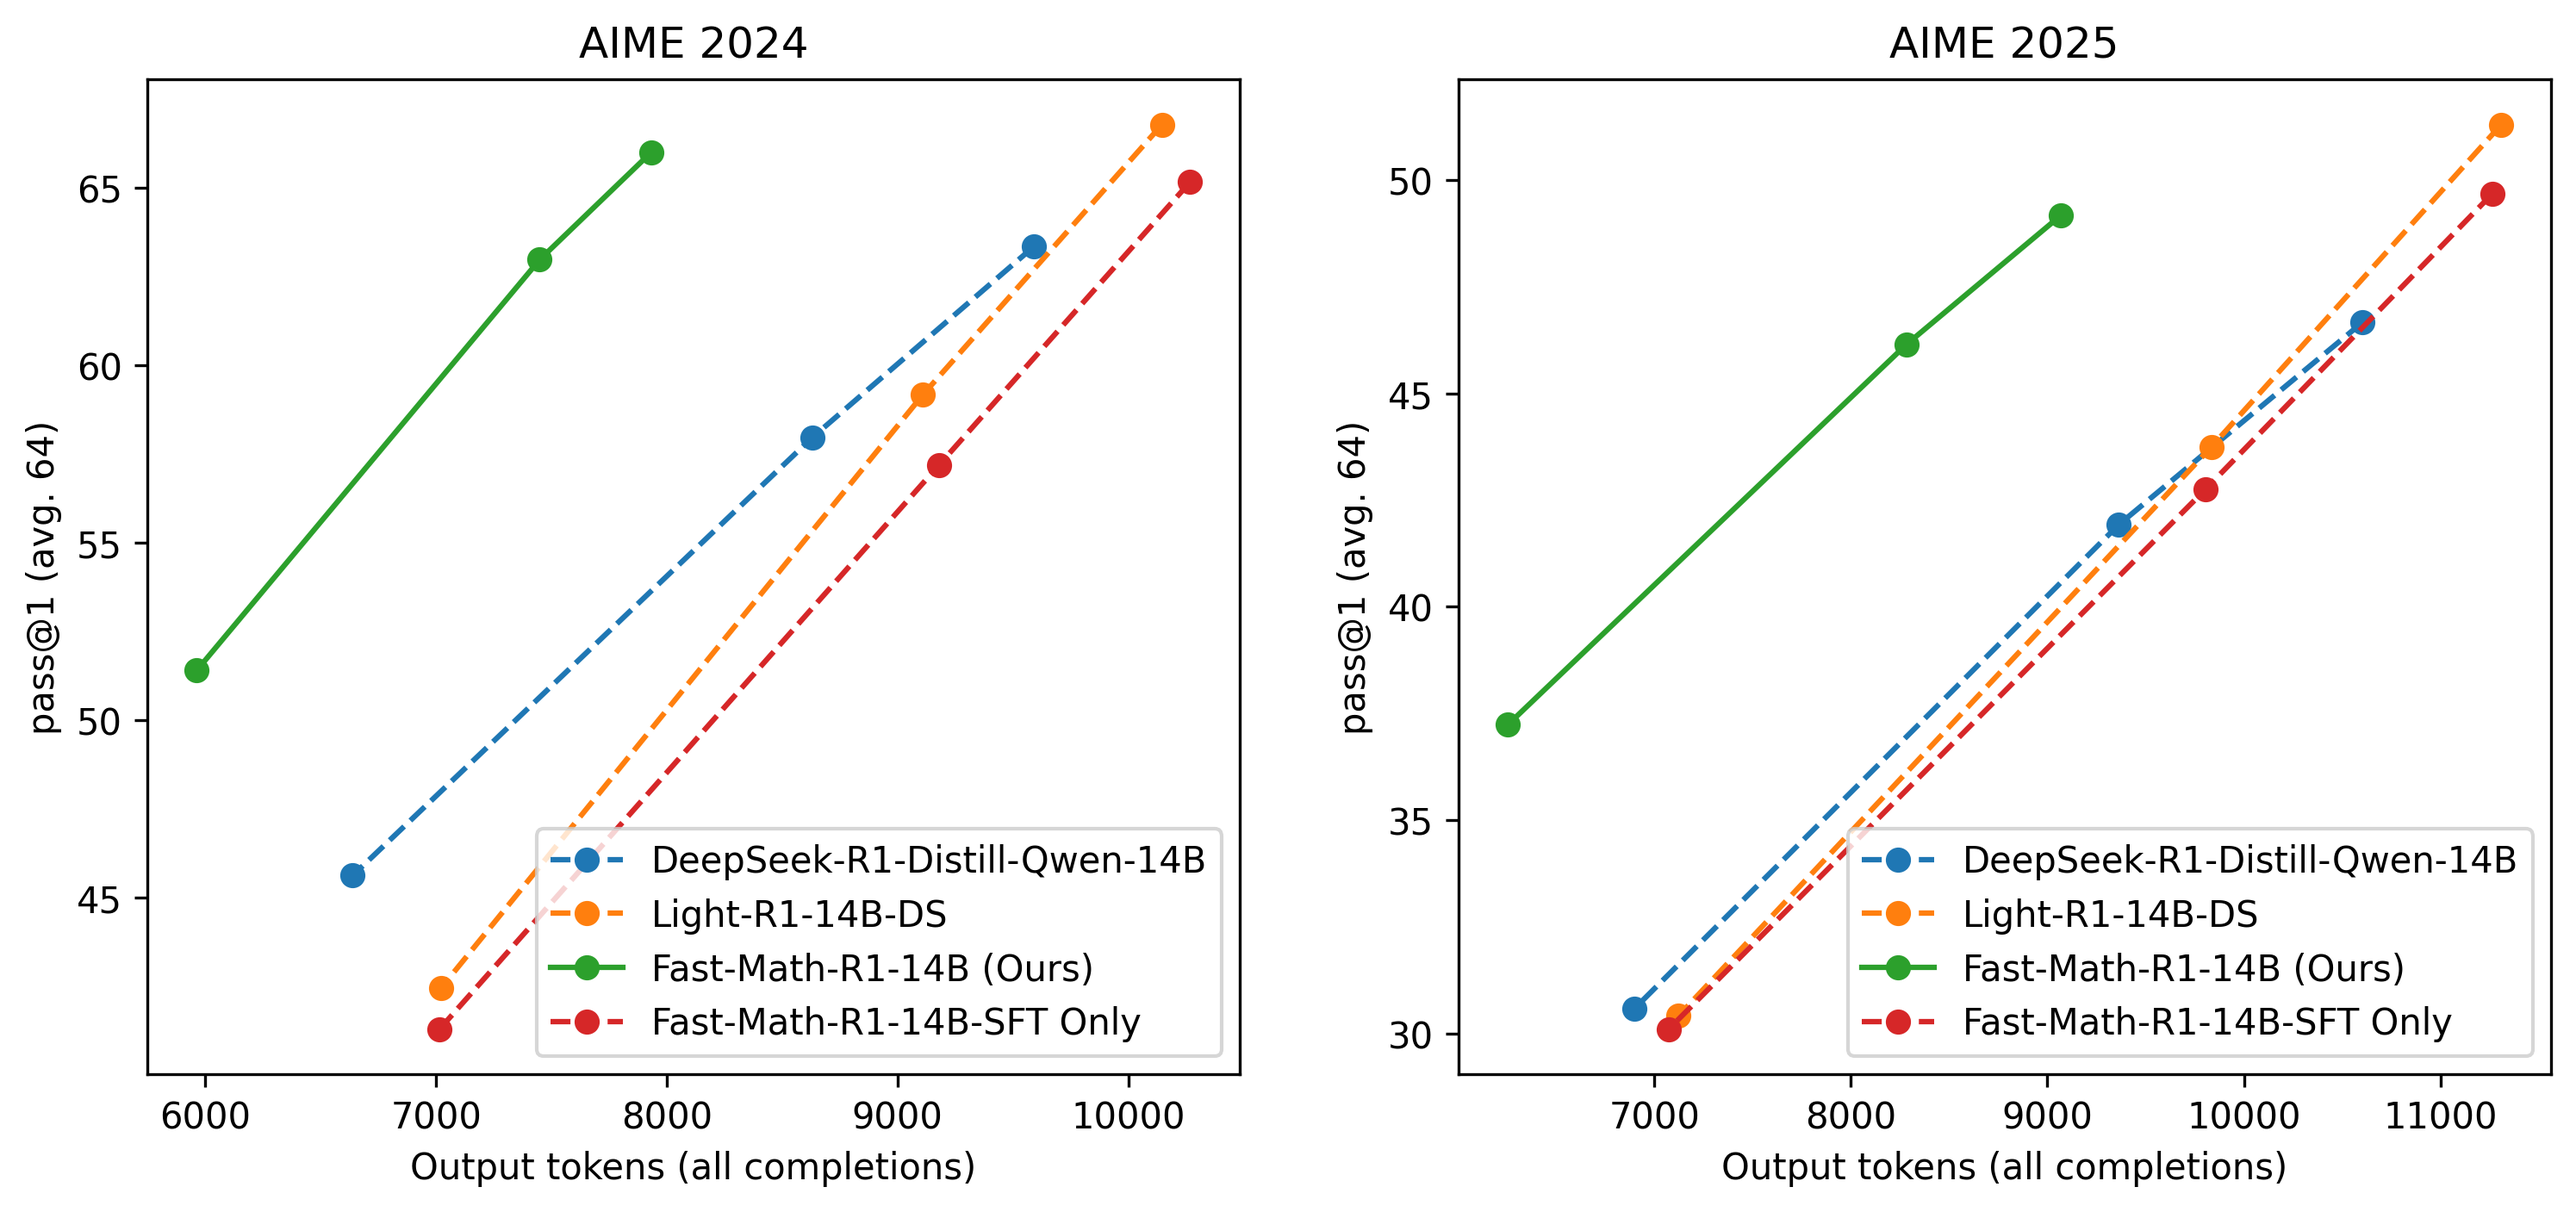
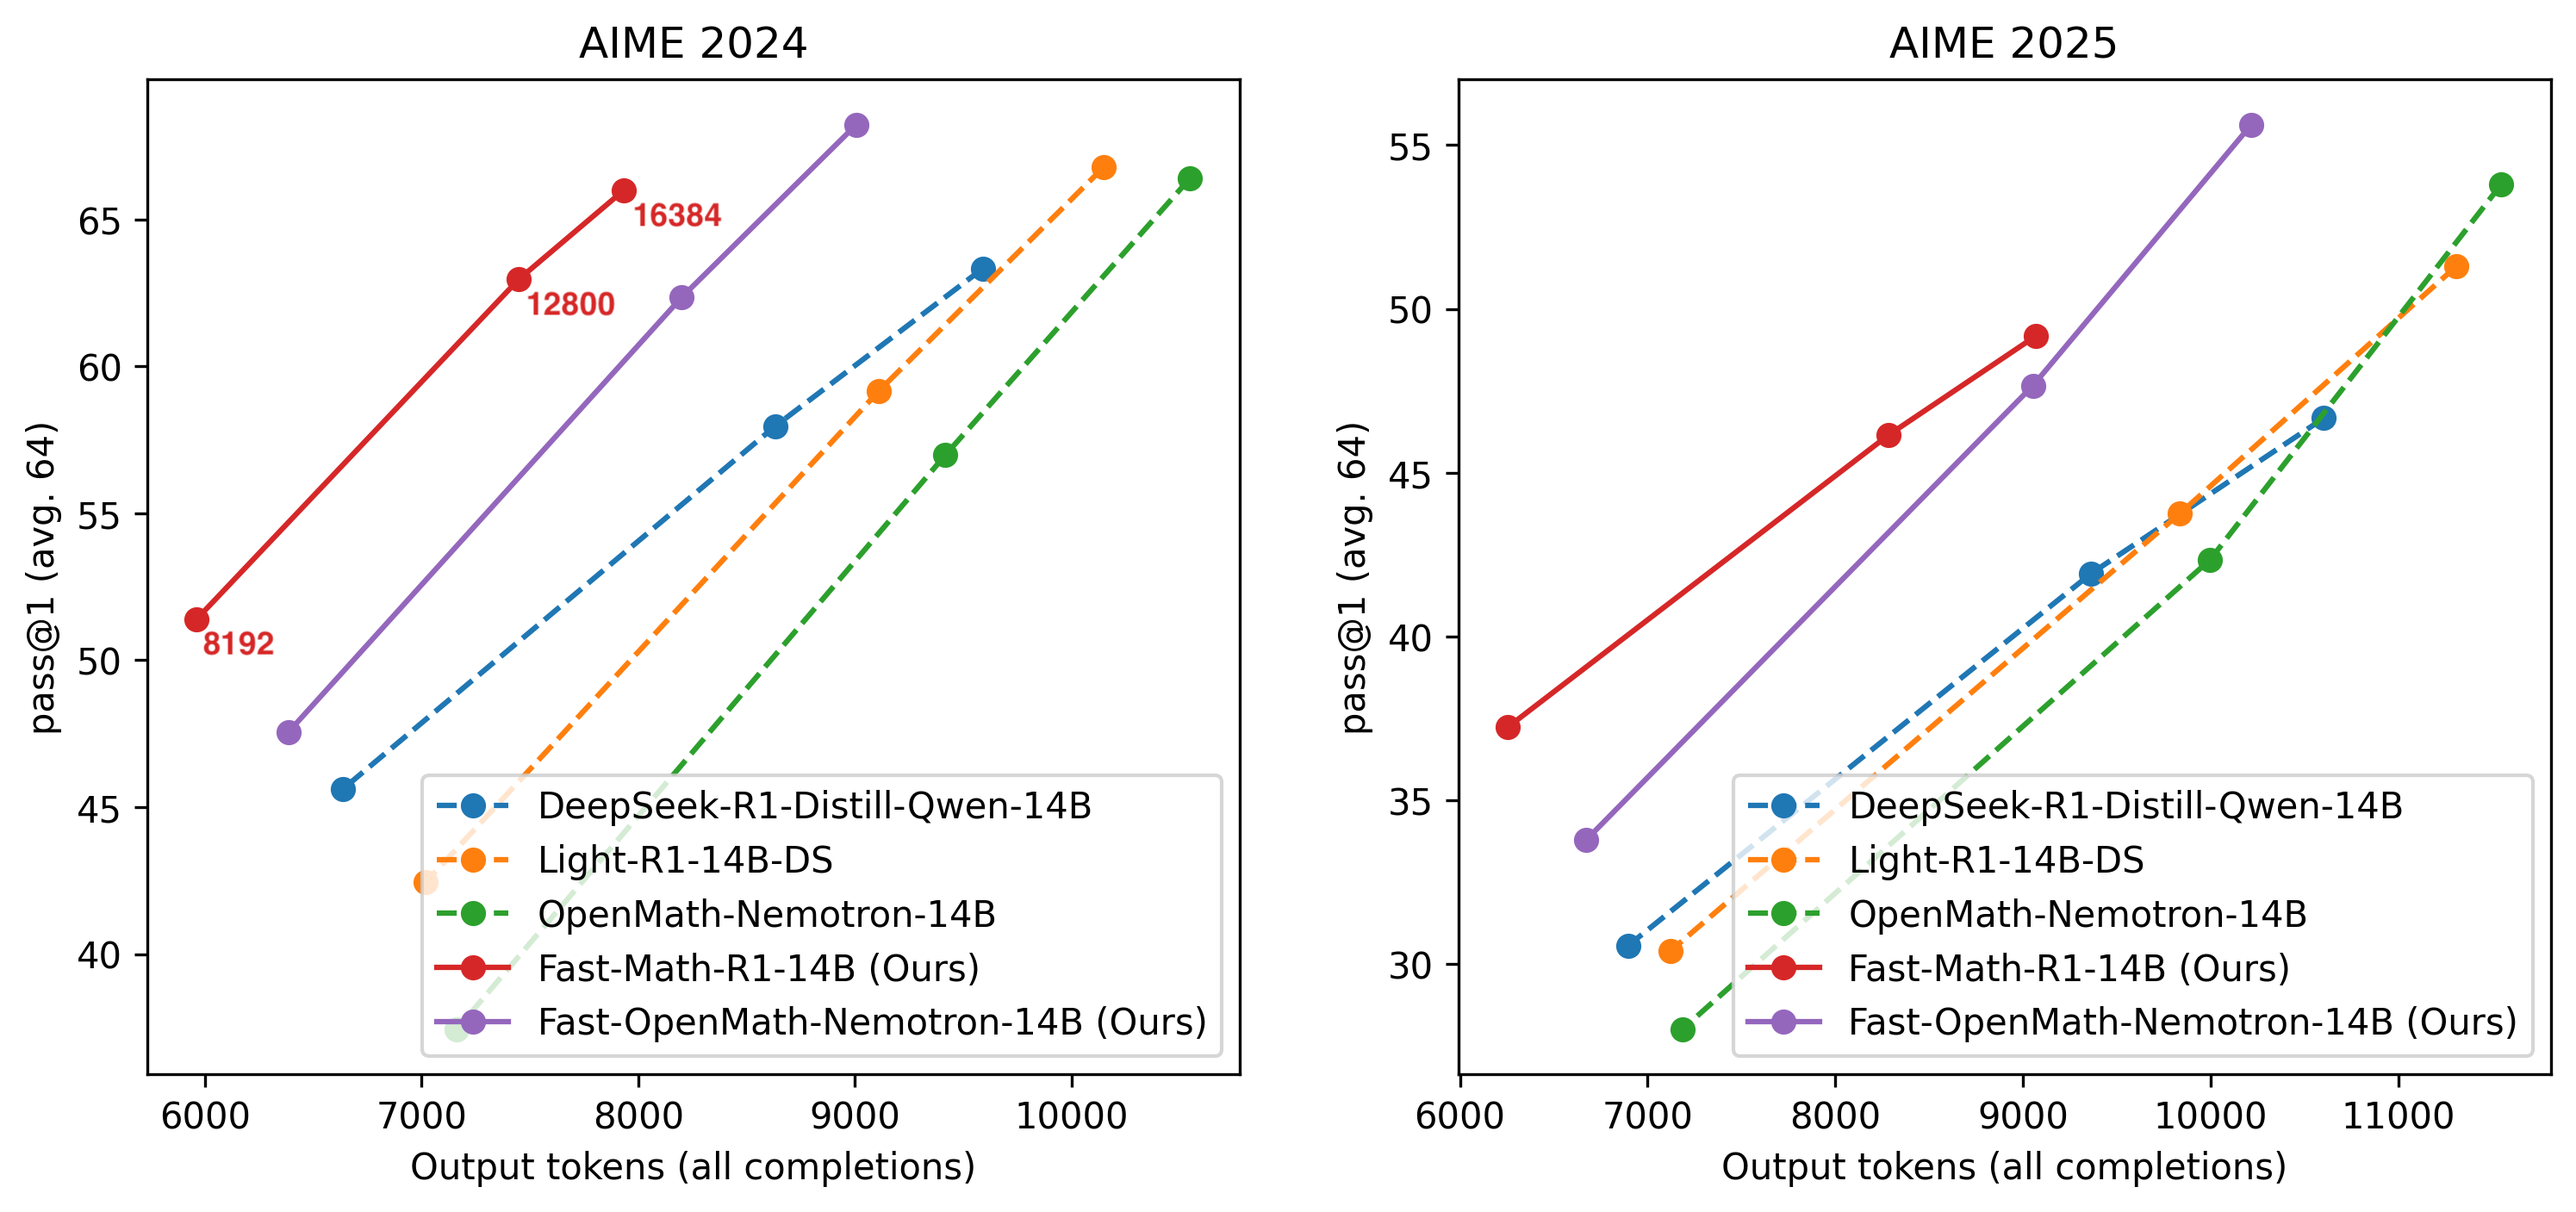
add fast-openmath-nemotron-14b

diff --git a/experiments/train_fast_nemotron_14b.py b/experiments/train_fast_nemotron_14b.py
@@ -1,0 +1,161 @@
+from datasets import Dataset, load_dataset
+from transformers import BitsAndBytesConfig
+from peft import LoraConfig
+# from trl import GRPOConfig, GRPOTrainer
+from finetune.openr1_mod.faster_grpo_trainer import FastGRPOTrainer as GRPOTrainer
+from finetune.openr1_mod.configs import GRPOConfig, vLLMConfig
+import pandas as pd
+import numpy as np
+from transformers import set_seed
+
+import sys
+sys.path.append('.')
+from finetune.grpo_rewards import REWARD_FUNCS_REGISTRY, get_cosine_scaled_reward
+
+
+'''
+Configs
+'''
+class CFG:
+    EXPERIMENT_NAME = 'train_fast_nemotron_14b'
+    MODEL_PATH = 'nvidia/OpenMath-Nemotron-14B'
+    DEBUG = False
+    SEED = 2025
+    # GRPO settings
+    reward_funcs = [
+        'format2',   # boxed before </think>
+        'cosine',
+        'length']
+    USE_VLLM = True
+    MAX_PROMPT_LENGTH = 512
+    MAX_COMPLETION_LENGTH = 24000
+    NUM_GENERATIONS = 8
+    BATCH_SIZE = 2
+    GRAD_ACCUM = 8
+    GRAD_CHECKPOINT = True
+    NUM_TRAIN_EPOCHS = 1
+    MAX_STEPS = 50
+    SAVE_STEPS = 10
+    EVAL_STEPS = 10
+    LOG_STEP = 1
+    BETA = 0.04
+    LR = 4e-6
+    # PEFT settings
+    USE_PEFT = False
+    USE_QLORA = False
+    LORA_MODULES = ['q_proj', 'k_proj', 'v_proj', 'o_proj', 'gate_proj', 'up_proj', 'down_proj']
+    LORA_R = 32
+    LORA_ALPHA = 32
+    LORA_DROPOUT = 0.05
+
+
+set_seed(CFG.SEED)
+
+training_args = GRPOConfig(
+    run_name=CFG.EXPERIMENT_NAME,
+    use_vllm=CFG.USE_VLLM,
+    vllm_config=vLLMConfig(
+        max_num_batched_tokens=CFG.MAX_COMPLETION_LENGTH,
+        max_model_len=CFG.MAX_COMPLETION_LENGTH,
+        gpu_memory_utilization=0.3,
+        tensor_parallel_size=4,
+        enforce_eager=True,
+        disable_log_stats=True,
+        sampling_params_dict=dict(
+            temperature=1.0,
+            top_p=0.9,
+            min_p=0.05,
+            max_tokens=CFG.MAX_COMPLETION_LENGTH,
+        )
+    ),
+    learning_rate=CFG.LR,
+    beta=CFG.BETA,
+    bf16=True,
+    per_device_train_batch_size=CFG.BATCH_SIZE,
+    gradient_accumulation_steps=CFG.GRAD_ACCUM,
+    gradient_checkpointing=CFG.GRAD_CHECKPOINT,
+    gradient_checkpointing_kwargs={'use_reentrant': False},
+    num_generations=CFG.NUM_GENERATIONS,
+    max_prompt_length=CFG.MAX_PROMPT_LENGTH,
+    max_completion_length=CFG.MAX_COMPLETION_LENGTH,
+    num_train_epochs=CFG.NUM_TRAIN_EPOCHS,
+    max_steps=CFG.MAX_STEPS,
+    save_steps=CFG.SAVE_STEPS,
+    eval_strategy="steps",
+    eval_steps=CFG.EVAL_STEPS,
+    per_device_eval_batch_size=CFG.BATCH_SIZE*2,
+    do_eval=True,
+    logging_steps=CFG.LOG_STEP,
+    lr_scheduler_type="cosine",
+    report_to="none" if CFG.DEBUG else "wandb",
+    output_dir=f"ft_models/{CFG.EXPERIMENT_NAME}",
+    logging_dir=f"output/{CFG.EXPERIMENT_NAME}",
+    save_total_limit=2,
+    save_strategy="steps",
+    optim='paged_adamw_8bit'
+)
+
+peft_config = LoraConfig(
+    r=CFG.LORA_R,
+    lora_alpha=CFG.LORA_ALPHA,
+    lora_dropout=CFG.LORA_DROPOUT,
+    target_modules=CFG.LORA_MODULES,
+    bias="none",
+    task_type="CAUSAL_LM",
+)
+
+quant_config = BitsAndBytesConfig(
+    # load_in_8bit=True
+    load_in_4bit=True,
+    bnb_4bit_quant_type='nf4',
+    bnb_4bit_compute_dtype='bfloat16',
+    bnb_4bit_use_double_quant=False,
+)
+
+
+def create_prompt(sample):
+    system_prompt = (
+        'You are a helpful and harmless assistant. You are Qwen developed by Alibaba. '
+        'You should think step-by-step. Return final answer within \\boxed{{}}.'
+    )
+    return {
+        'prompt': [
+            {"role": "system", "content": system_prompt},
+            {"role": "user", "content": sample['problem']}
+        ]
+    }
+
+
+if __name__ == "__main__":
+    dataset = load_dataset('RabotniKuma/Fast-Math-R1-GRPO')['train']
+    dataset = dataset.map(create_prompt)
+
+    training_args.model_init_kwargs = dict(
+        quantization_config=quant_config if CFG.USE_QLORA else None,
+        trust_remote_code=True,
+        use_cache=False if CFG.GRAD_CHECKPOINT else True,
+    )
+
+    reward_funcs = []
+    for func_name in CFG.reward_funcs:
+        if func_name == 'cosine':
+            reward_funcs.append(
+                get_cosine_scaled_reward(
+                    max_value_correct=1.0,
+                    min_value_correct=0.1,
+                    max_value_wrong=-0.1,
+                    min_value_wrong=-1.0,
+                    max_len=48000,
+                    clip_len=True,
+                ))
+        else:
+            reward_funcs.append(REWARD_FUNCS_REGISTRY[func_name])
+
+    trainer = GRPOTrainer(
+        model=CFG.MODEL_PATH,
+        reward_funcs=reward_funcs,
+        args=training_args,
+        train_dataset=dataset,
+        peft_config=peft_config if CFG.USE_PEFT else None,
+    )
+    trainer.train()

diff --git a/README.md b/README.md
@@ -9,6 +9,9 @@
 By applying SFT and GRPO on difficult math problems, we enhanced the performance of `DeepSeek-R1-Distill-Qwen-14B` and developed `Fast-Math-R1-14B`, 
 which achieves up to 60% (on average approx. 30%) faster inference while maintaining accuracy.
 
+In addition, we trained and open-sourced `Fast-OpenMath-Nemotron-14B`, an efficiency-optimized version of NVIDIA’s `OpenMath-Nemotron-14B`, following the same approach.
+
+## Performance comparison under strict token budget constraints
 <img src="assets/pass1_aime_all.png" max-height="300px">
 
 |                              |              | AIME 2024        |               | AIME 2025        |               | 
@@ -27,9 +30,26 @@ which achieves up to 60% (on average approx. 30%) faster inference while maintai
 |                              | 12800        | 57.2             | 9180          | 42.8             | 9805          | 
 |                              | 8192         | 41.3             | 7015          | 30.1             | 7074          | 
 
+## Performance comparison under loose token constraints
+<img src="assets/pass1_aime_nemotron.png" max-height="300px">
+
+|                            |              | AIME 2024        |                                 | AIME 2025        |                                 | 
+| -------------------------- | ------------ | ---------------- | ------------------------------- | ---------------- | ------------------------------- | 
+| Model                      | Token budget | Pass@1 (avg. 64) | Output tokens | Pass@1 (avg. 64) | Output tokens | 
+| OpenMath-Nemotron-14B      | 24000        | **73.3**             | 12277                           | **64.4**             | 13027                           | 
+|                            | 16384        | 66.4             | 8932                            | 53.8             | 11547                           | 
+|                            | 12800        | 57               | 7000                            | 42.3             | 9996                            | 
+|                            | 8192         | 37.4             | 4835                            | 28               | 7186                            | 
+| Fast-OpenMath-Nemotron-14B | 24000        | 71.7             | 10545                           | 60.4             | 11053                           | 
+|                            | 16384        | **68.2**             | 8270                            | **55.6**             | 10216                           | 
+|                            | 12800        | **62.3**             | 6359                            | **47.7**             | 9052                            | 
+|                            | 8192         | **47.6**             | 4299                            | **33.8**             | 6674                            | 
+
+
 
 # Download
 - `Fast-Math-R1-14B` model is available at [Huggingface](https://huggingface.co/RabotniKuma/Fast-Math-R1-14B) and [Kaggle Models](https://www.kaggle.com/models/analokamus/fast_math_r1_14b/).
+- `Fast-OpenMath-Nemotron-14B` model is available at [Huggingface](https://huggingface.co/RabotniKuma/Fast-OpenMath-Nemotron-14B)
 - [First stage SFT dataset](https://huggingface.co/datasets/RabotniKuma/Fast-Math-R1-SFT)
 - [Second stage GRPO dataset](https://huggingface.co/datasets/RabotniKuma/Fast-Math-R1-GRPO)
 - (Optional) [Token scheduler dataset](https://huggingface.co/datasets/RabotniKuma/Fast-Math-R1-Token-Scheduler)
@@ -80,6 +100,7 @@ from transformers import AutoTokenizer
 
 
 model_path = 'RabotniKuma/Fast-Math-R1-14B'
+# model_path = 'RabotniKuma/Fast-OpenMath-Nemotron-14B'
 vllm_engine = LLM(
     model=model_path,
     max_model_len=8192,
